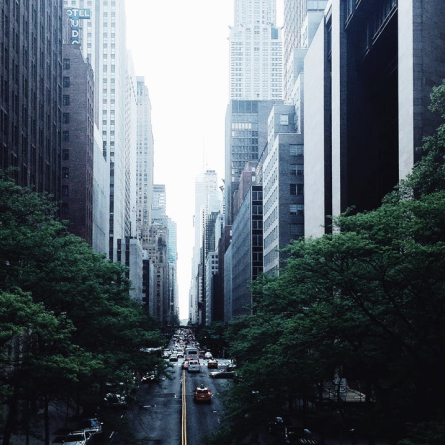
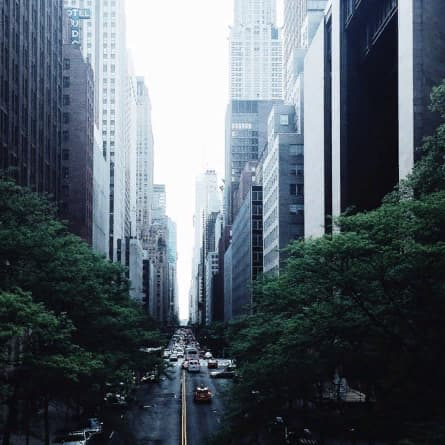
img size changed

diff --git a/index.html b/index.html
@@ -80,7 +80,8 @@
                             <a class="good-sides__btn" href="#">Learn more</a>
                         </div>
                         <picture class="good-sides__picture">
-                            <img class="good-sides__img" src="./img/riding-telemetry.png" srcset="./img/riding-telemetry.png 1x, ./img/riding-telemetry@2x.png 2x" alt="a boy" width="445" height="445">
+                            <source type="image/webp" srcset="./img/riding-telemetry.webp">
+                            <img class="good-sides__img" src="./img/riding-telemetry.jpg" srcset="./img/riding-telemetry.jpg 1x, ./img/riding-telemetry@2x.jpg 2x" alt="a boy" width="445" height="445">
                         </picture>
                     </li>
                     <li class="good-sides__item">
@@ -90,6 +91,7 @@
                             <a class="good-sides__btn" href="#">Learn more</a>
                         </div>
                         <picture class="good-sides__picture">
+                            <source type="image/webp" srcset="./img/coming-city.webp">
                             <img class="good-sides__img" src="./img/coming-city.jpg" srcset="./img/coming-city.jpg 1x, ./img/coming-city@2x.jpg 2x" alt="a boy" width="445" height="445">
                         </picture>
                     </li>
@@ -100,7 +102,8 @@
                             <a class="good-sides__btn" href="#">Learn more</a>
                         </div>
                         <picture class="good-sides__picture">
-                            <img class="good-sides__img" src="./img/hassle-payments.png" srcset="./img/hassle-payments.png 1x, ./img/hassle-payments@2x.png 2x" alt="a boy" width="445" height="445">
+                            <source type="image/webp" srcset="./img/hassle-payments.webp">
+                            <img class="good-sides__img" src="./img/hassle-payments.jpg" srcset="./img/hassle-payments.png 1x, ./img/hassle-payments@2x.jpg 2x" alt="a boy" width="445" height="445">
                         </picture>
                     </li>
                 </ul>
